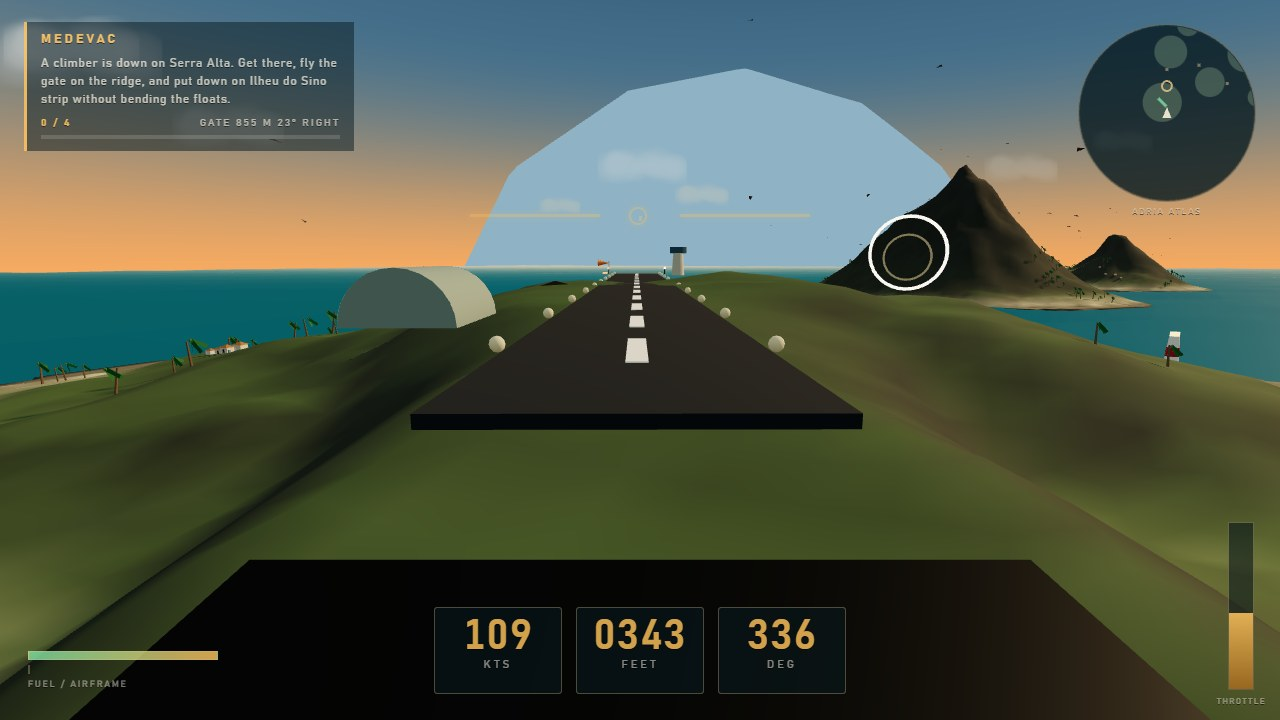
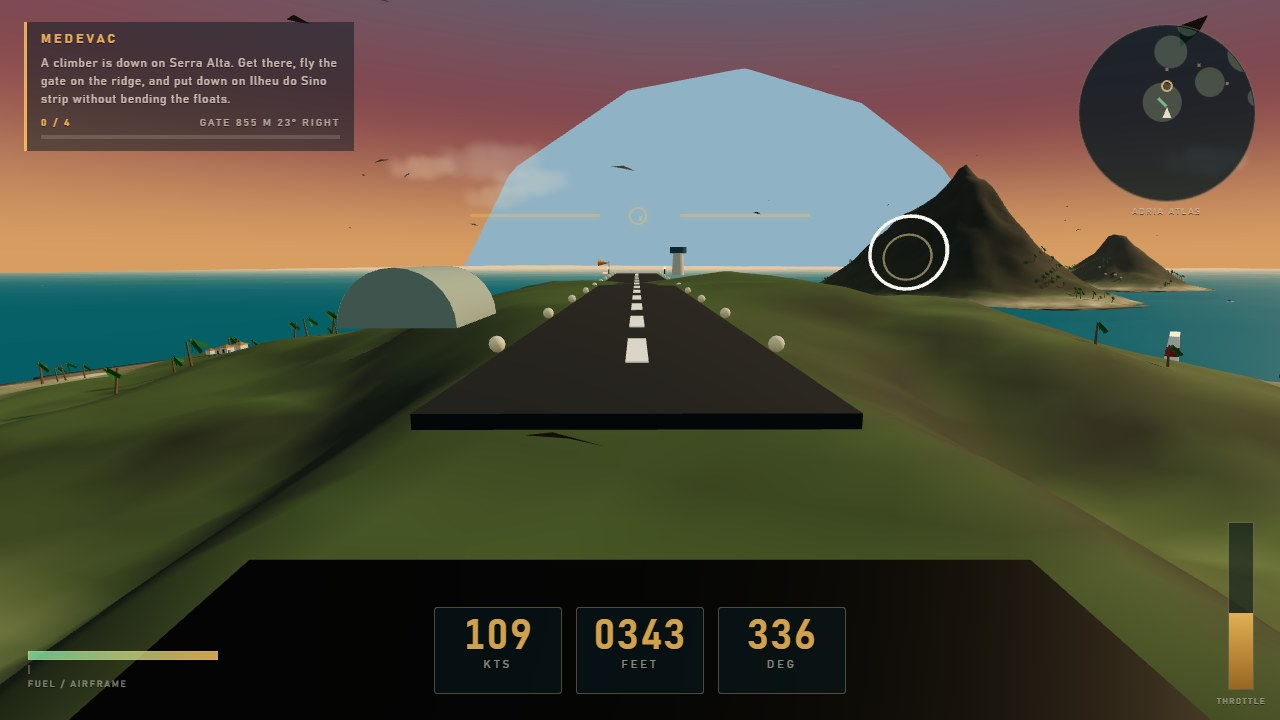
Sunset sky rebuilt without a hard horizon band, soft cloud edges, lens streak

diff --git a/game/src/render/cameras.js b/game/src/render/cameras.js
@@ -62,3 +62,65 @@ export function createCameraRig(camera) {
 
   return rig;
 }
+
+// A lens breath when the sun swings into the glass: an anamorphic streak plus a couple of
+// ghost dots, all parented to the camera so they track whatever view is active.
+export function createFlare(camera, sunDirection) {
+  const group = new THREE.Group();
+  camera.add(group);
+
+  const canvas = document.createElement('canvas');
+  canvas.width = 256;
+  canvas.height = 32;
+  const ctx = canvas.getContext('2d');
+  const gradient = ctx.createLinearGradient(0, 16, 256, 16);
+  gradient.addColorStop(0, 'rgba(255,226,178,0)');
+  gradient.addColorStop(0.5, 'rgba(255,238,204,0.9)');
+  gradient.addColorStop(1, 'rgba(255,226,178,0)');
+  ctx.fillStyle = gradient;
+  ctx.fillRect(0, 10, 256, 12);
+  const streakTexture = new THREE.CanvasTexture(canvas);
+  streakTexture.colorSpace = THREE.SRGBColorSpace;
+
+  const streak = new THREE.Mesh(
+    new THREE.PlaneGeometry(1, 1),
+    new THREE.MeshBasicMaterial({ map: streakTexture, transparent: true, depthWrite: false, depthTest: false, blending: THREE.AdditiveBlending, opacity: 0 })
+  );
+  streak.scale.set(3.0, 0.04, 1);
+  streak.position.z = -2;
+  group.add(streak);
+
+  const ghosts = [];
+  for (let i = 0; i < 0; i++) {
+    const ghost = new THREE.Mesh(
+      new THREE.CircleGeometry(0.06 + i * 0.03, 18),
+      new THREE.MeshBasicMaterial({ color: '#ffd9a8', transparent: true, depthWrite: false, depthTest: false, blending: THREE.AdditiveBlending, opacity: 0 })
+    );
+    ghost.position.z = -2;
+    group.add(ghost);
+    ghosts.push(ghost);
+  }
+
+  const forward = new THREE.Vector3();
+  const projected = new THREE.Vector3();
+
+  return {
+    update() {
+      forward.set(0, 0, -1).applyQuaternion(camera.quaternion);
+      const align = forward.dot(sunDirection);
+      const strength = THREE.MathUtils.clamp((align - 0.55) / 0.45, 0, 1);
+      projected.copy(sunDirection).multiplyScalar(600).add(camera.position);
+      projected.project(camera);
+      const x = THREE.MathUtils.clamp(projected.x * 1.25, -1.6, 1.6);
+      const y = THREE.MathUtils.clamp(projected.y * 1.05, -1.2, 1.2);
+      streak.position.x = x * 1.05;
+      streak.position.y = y * 0.62 + 0.12;
+      streak.material.opacity = strength * 0.22;
+      ghosts.forEach((ghost, i) => {
+        ghost.position.x = -x * (0.9 + i * 0.5);
+        ghost.position.y = -y * (0.55 + i * 0.3);
+        ghost.material.opacity = strength * (0.16 - i * 0.04);
+      });
+    },
+  };
+}

diff --git a/game/src/render/scene.js b/game/src/render/scene.js
@@ -23,7 +23,8 @@ function skyDome() {
     uniforms: {
       top: { value: new THREE.Color('#1e5c86') },
       mid: { value: new THREE.Color('#8fb2c4') },
-      low: { value: new THREE.Color('#ffd7a4') },
+      rose: { value: new THREE.Color('#c08e94') },
+      low: { value: new THREE.Color('#e6c9a6') },
     },
     vertexShader: `
       varying float vH;
@@ -32,12 +33,15 @@ function skyDome() {
         gl_Position = projectionMatrix * modelViewMatrix * vec4(position, 1.0);
       }`,
     fragmentShader: `
-      uniform vec3 top; uniform vec3 mid; uniform vec3 low;
+      uniform vec3 top; uniform vec3 mid; uniform vec3 low; uniform vec3 rose;
       varying float vH;
       void main() {
         float h = clamp(vH, -1.0, 1.0);
-        vec3 c = mix(low, mid, smoothstep(-0.06, 0.34, h));
-        c = mix(c, top, smoothstep(0.24, 0.92, h));
+        // Warm haze hugging the water, then a long slow climb into blue: no hard band.
+        vec3 c = mix(low, rose, smoothstep(0.015, 0.26, h));
+        c = mix(c, mid, smoothstep(0.16, 0.62, h));
+        c = mix(c, top, smoothstep(0.5, 1.0, h));
+        c += vec3(0.06, 0.035, 0.0) * (1.0 - smoothstep(-0.04, 0.2, h));
         gl_FragColor = vec4(c, 1.0);
       }`,
   });
@@ -63,10 +67,15 @@ function cloudTexture() {
     ctx.arc(x, y, r, 0, Math.PI * 2);
     ctx.fill();
   }
-  // Soften the sprite's own square edge.
-  const edge = ctx.createRadialGradient(128, 64, 40, 128, 64, 152);
-  edge.addColorStop(0, 'rgba(255,250,244,0)');
-  edge.addColorStop(1, 'rgba(255,250,244,0)');
+  // Soften the sprite's own square edge: keep the middle, fade the border away.
+  const edge = ctx.createRadialGradient(128, 64, 22, 128, 64, 128);
+  edge.addColorStop(0, 'rgba(0,0,0,0.95)');
+  edge.addColorStop(0.6, 'rgba(0,0,0,0.72)');
+  edge.addColorStop(1, 'rgba(0,0,0,0)');
+  ctx.globalCompositeOperation = 'destination-in';
+  ctx.fillStyle = edge;
+  ctx.fillRect(0, 0, 256, 128);
+  ctx.globalCompositeOperation = 'source-over';
   const tex = new THREE.CanvasTexture(canvas);
   tex.colorSpace = THREE.SRGBColorSpace;
   return tex;
@@ -178,7 +187,7 @@ export function buildSky(scene) {
   }
   scene.add(bank);
 
-  scene.fog = new THREE.Fog('#c6c2ad', WORLD.fogNear, WORLD.fogFar);
+  scene.fog = new THREE.Fog('#e6c9a6', WORLD.fogNear * 0.62, WORLD.fogFar * 0.78);
   scene.background = new THREE.Color('#8fb2c4');
   return { sun, clouds };
 }

diff --git a/game/src/main.js b/game/src/main.js
@@ -3,7 +3,7 @@
 import * as THREE from 'three';
 import { PLAY, MISSION_KINDS } from './config.js';
 import { createRenderer, buildSky, applyCameraSettings } from './render/scene.js';
-import { createCameraRig } from './render/cameras.js';
+import { createCameraRig, createFlare } from './render/cameras.js';
 import { buildCockpit } from './render/cockpit.js';
 import { buildTerrain, animateSea, airstripPad } from './terrain/buildIslands.js';
 import { buildVegetation } from './terrain/vegetation.js';
@@ -27,7 +27,7 @@ const renderer = createRenderer(canvas);
 const scene = new THREE.Scene();
 const camera = new THREE.PerspectiveCamera(62, window.innerWidth / window.innerHeight, 0.4, 12000);
 applyCameraSettings(camera);
-buildSky(scene);
+const sky = buildSky(scene);
 const terrain = buildTerrain(scene);
 buildVegetation(scene);
 const sea = terrain.children.find((child) => child.userData?.wave);
@@ -37,6 +37,7 @@ let damage = null;
 const rig = createCameraRig(camera);
 const cockpit = buildCockpit();
 scene.add(camera);
+const flare = createFlare(camera, sky.sun.position.clone().normalize());
 camera.add(cockpit);
 cockpit.visible = false;
 const screens = createScreens();
@@ -232,6 +233,7 @@ function frame() {
     }
   }
 
+  flare.update();
   renderer.render(scene, camera);
   requestAnimationFrame(frame);
 }
